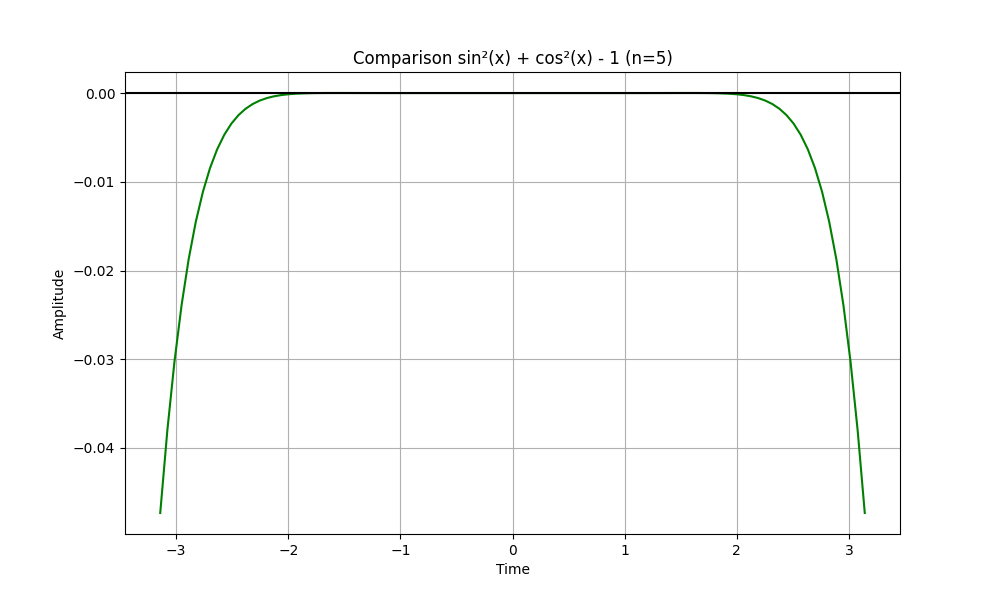
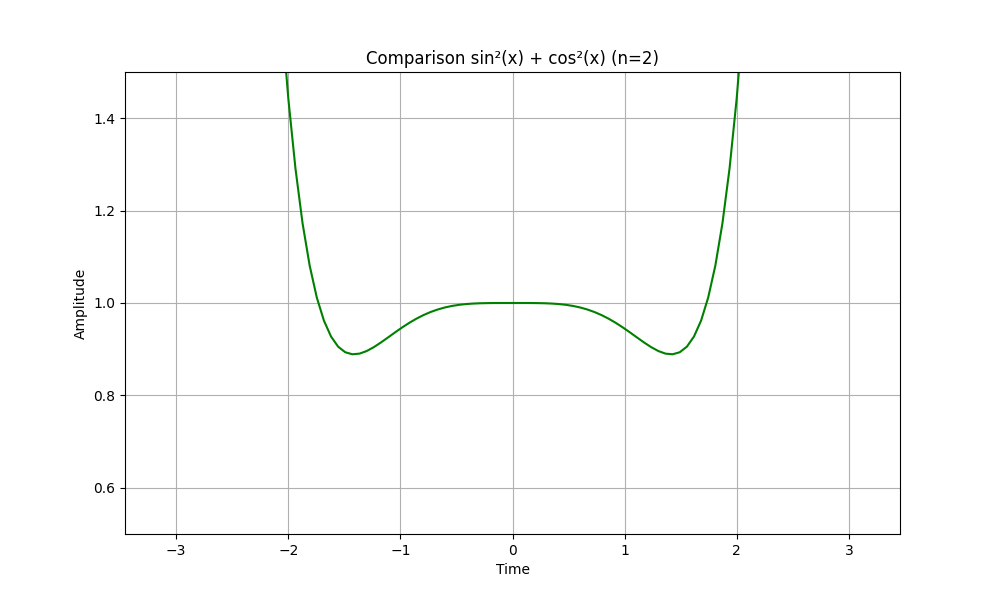
Corrected 5. image

diff --git a/Laboratory2/Exercise3.py b/Laboratory2/Exercise3.py
@@ -35,7 +35,7 @@ def print_comparison(f1, f2, namef1, namef2, n=5):
     
     plot.show()
 
-def print_function(f, name, n=5, color="green"):
+def print_function(f, name, n=5, color="green", limited=False):
     x = np.linspace(-np.pi, np.pi, 100)
 
     plot.figure(figsize=(10, 6))
@@ -47,6 +47,8 @@ def print_function(f, name, n=5, color="green"):
     plot.ylabel('Amplitude')
     plot.grid(True, which='both')
     plot.axhline(y=0, color='k')
+    if limited:
+        plot.ylim(0.5, 1.5)
     
     plot.show()
 
@@ -60,8 +62,8 @@ def diff_cos(x, n):
     return np.cos(x) - taylor_cos(x, n)
 
 def formula(x, n):
-    # sin²(x) + cos²(x) - 1
-    return taylor_sin(x, n)**2 + taylor_cos(x, n)**2 - 1
+    # sin²(x) + cos²(x)
+    return taylor_sin(x, n)**2 + taylor_cos(x, n)**2
 
 
 
@@ -70,4 +72,4 @@ print_comparison(np.sin, taylor_sin, "sin", "Taylor sin", n=2)
 print_comparison(np.cos, taylor_cos, "cos", "Taylor cos", n=2)
 print_function(diff_sin, "difference of sine and taylor approx", n=5)
 print_function(diff_cos, "difference of cos and taylor approx", n=5)
-print_function(formula, "sin²(x) + cos²(x) - 1", n=5)
+print_function(formula, "sin²(x) + cos²(x)", n=2, limited=True)

diff --git a/Laboratory2/Laboratory 2.md b/Laboratory2/Laboratory 2.md
@@ -85,7 +85,7 @@ def print_comparison(f1, f2, namef1, namef2, n=5):
     
     plot.show()
 
-def print_function(f, name, n=5, color="green"):
+def print_function(f, name, n=5, color="green", limited=False):
     x = np.linspace(-np.pi, np.pi, 100)
 
     plot.figure(figsize=(10, 6))
@@ -97,6 +97,8 @@ def print_function(f, name, n=5, color="green"):
     plot.ylabel('Amplitude')
     plot.grid(True, which='both')
     plot.axhline(y=0, color='k')
+    if limited:
+        plot.ylim(0.5, 1.5)
     
     plot.show()
 
@@ -110,8 +112,8 @@ def diff_cos(x, n):
     return np.cos(x) - taylor_cos(x, n)
 
 def formula(x, n):
-    # sin²(x) + cos²(x) - 1
-    return taylor_sin(x, n)**2 + taylor_cos(x, n)**2 - 1
+    # sin²(x) + cos²(x)
+    return taylor_sin(x, n)**2 + taylor_cos(x, n)**2
 
 
 
@@ -120,5 +122,5 @@ print_comparison(np.sin, taylor_sin, "sin", "Taylor sin", n=2)
 print_comparison(np.cos, taylor_cos, "cos", "Taylor cos", n=2)
 print_function(diff_sin, "difference of sine and taylor approx", n=5)
 print_function(diff_cos, "difference of cos and taylor approx", n=5)
-print_function(formula, "sin²(x) + cos²(x) - 1", n=5)
+print_function(formula, "sin²(x) + cos²(x)", n=2, limited=True)
 ```
